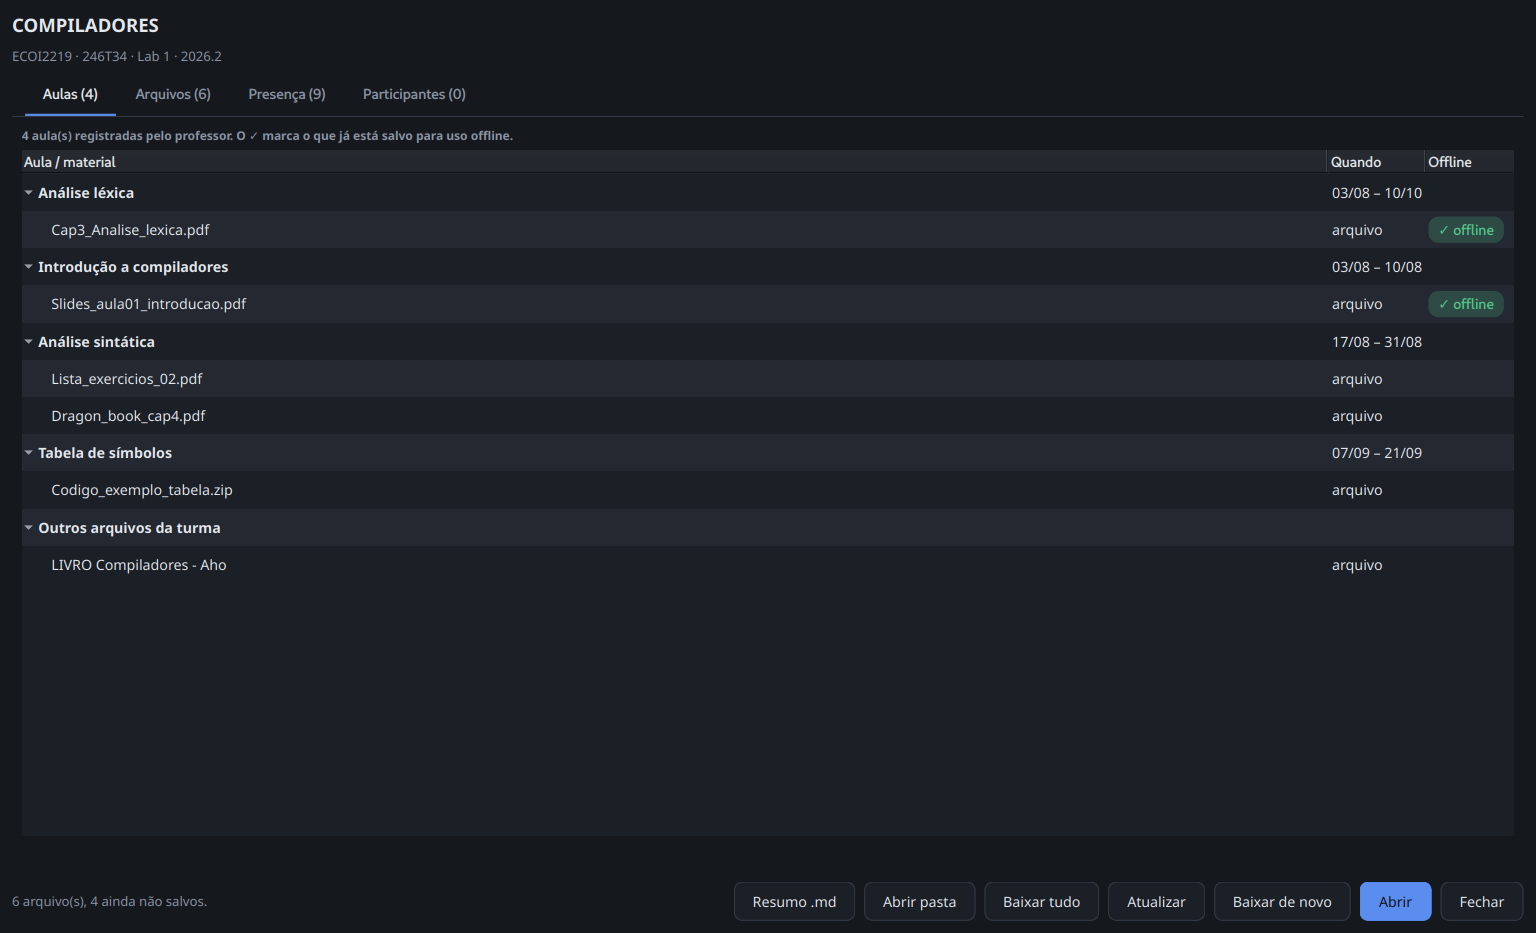
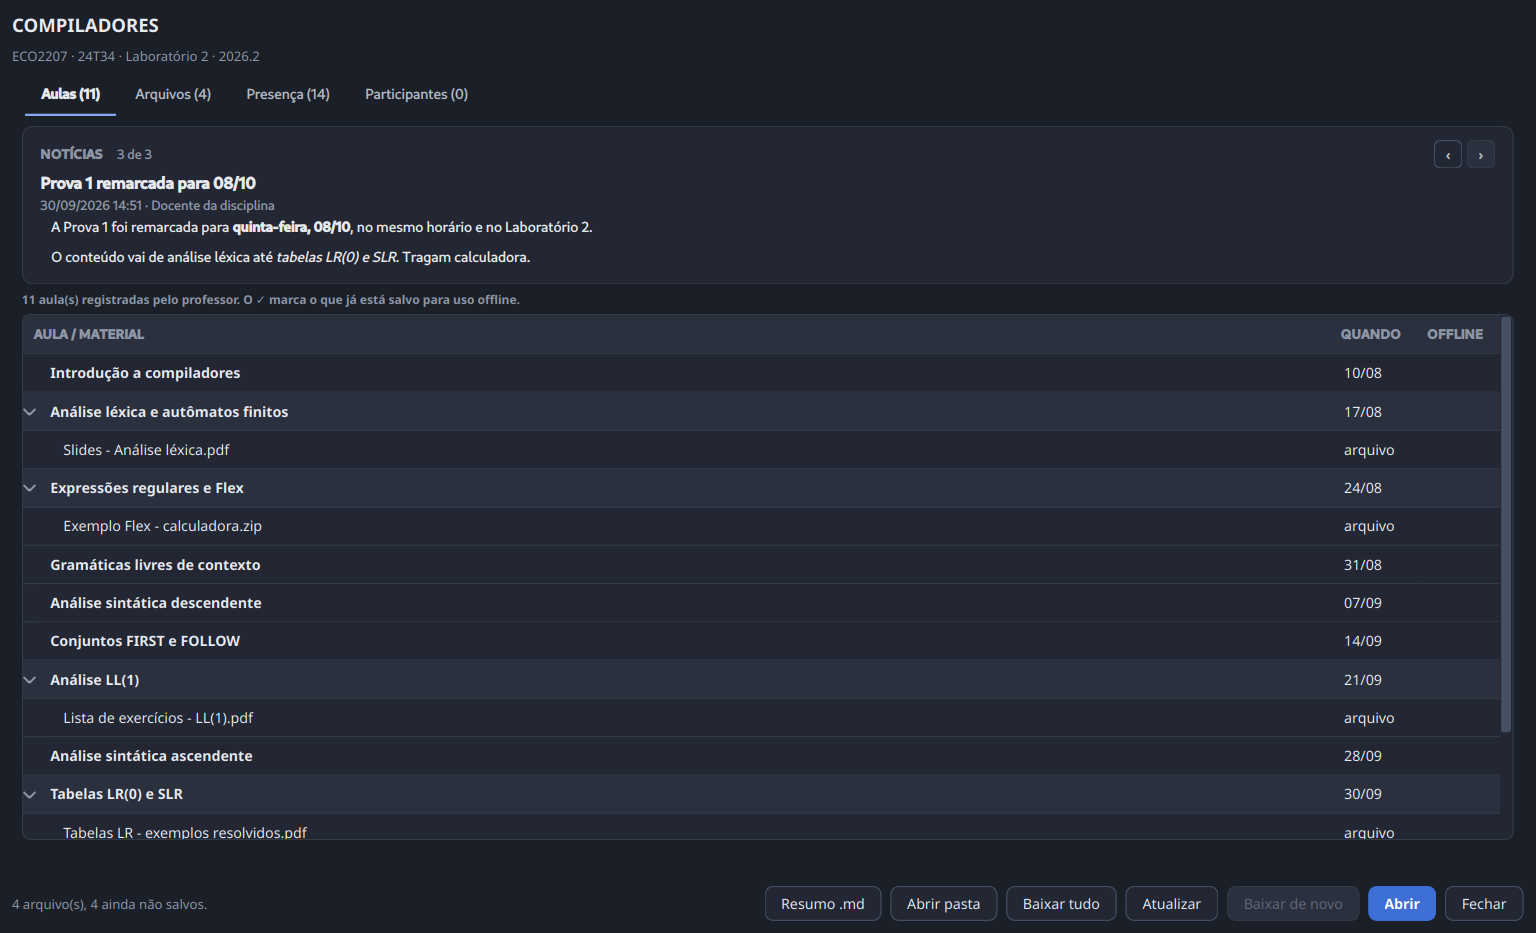
docs: README com as capturas da interface nova
Onze telas refeitas com dados ficticios (4 turmas, provas, noticias e
frequencia inventadas), num HOME isolado e sem rede (unshare -rn), sem
banco real copiado. Entram as telas novas: carga do periodo e datas a
confirmar; a janela da turma mostra o painel de noticias.

diff --git a/README.md b/README.md
@@ -52,13 +52,9 @@ a janela Qt mostra prazos, provas e atualizações e dispara sync em segundo pla
 
 ## As telas
 
-Capturas do app com dados de exemplo. O tema acompanha o do sistema; as
-imagens abaixo estão no escuro.
+Capturas do app com dados de exemplo (turmas, provas e notícias fictícias). O
+tema acompanha o do sistema; as imagens abaixo estão no escuro.
 
-> As capturas ainda são do visual anterior. A interface ganhou o desenho do
-> protótipo de telas (cabeçalho com as abas embutidas, painel de resumo na aba
-> Provas, tema por tokens); o conteúdo e a hierarquia descritos aqui são os
-> mesmos, e as imagens serão refeitas com os dados de exemplo.
 
 ### Agenda
 
@@ -89,13 +85,28 @@ dos arquivos; ao lado, a prova seguinte no mesmo formato; e a **carga por
 semana**, provas e entregas empilhadas por semana, com o período inteiro a um
 clique.
 
-Datas deduzidas de tópico de aula se confirmam juntas: a pílula **○ N datas a
-confirmar** abre a lista delas, com o título do tópico de onde cada uma saiu, e
-três respostas por linha: confirmar, corrigir a data ou dizer que **não é
-prova** ("Revisão para a P1" menciona prova, mas não é uma). O descarte tira a
-data da tabela, do calendário e do `.ics`, e se desfaz ali mesmo.
-
 ![Provas](docs/img/provas.png)
+
+### Carga do período
+
+**Período inteiro**, no canto da carga por semana, abre o semestre todo. Cada
+coluna é uma semana, com o intervalo dela ("29 set - 4 out"); o que já passou
+fica na base, apagado. Embaixo, um quadradinho por dia, de segunda a domingo:
+laranja com prova (com um ponto quando há duas no mesmo dia), cinza com
+entrega, só o contorno quando o dia está livre. Clicar numa semana filtra a
+lista de provas para ela.
+
+![Carga do período](docs/img/carga-periodo.png)
+
+### Datas a confirmar
+
+Datas deduzidas de tópico de aula se confirmam juntas: a pílula **○ N datas a
+confirmar** abre a lista delas, com três respostas por linha: confirmar,
+corrigir a data ou dizer que **não é prova** ("Revisão para a P1" menciona
+prova, mas não é uma). O descarte tira a data da tabela, do calendário e do
+`.ics`, e se desfaz ali mesmo.
+
+<img src="docs/img/datas-confirmar.png" width="620" alt="Datas a confirmar">
 
 ### Corrigir a data de uma prova
 
@@ -119,8 +130,12 @@ a fez.
 Aulas com o material pendurado em cada uma. O `✓ offline` marca o que já está
 no seu disco: a janela abre sem rede depois da primeira vez.
 
+Acima das aulas ficam as **notícias** do professor, a mais nova primeiro, com
+‹ › para voltar às antigas. É onde ele avisa que a prova mudou de dia ou o que
+cai nela; notícia nova também gera aviso na bandeja.
+
 **Resumo .md** grava um `turma.md` na pasta da turma com aulas, datas,
-materiais e provas: é o arquivo para colar num assistente de IA junto com os
+materiais, provas e notícias: é o arquivo para colar num assistente de IA junto com os
 PDFs, para ele receber o fio da disciplina e não vinte arquivos soltos.
 
 ![Janela da turma](docs/img/turma.png)
